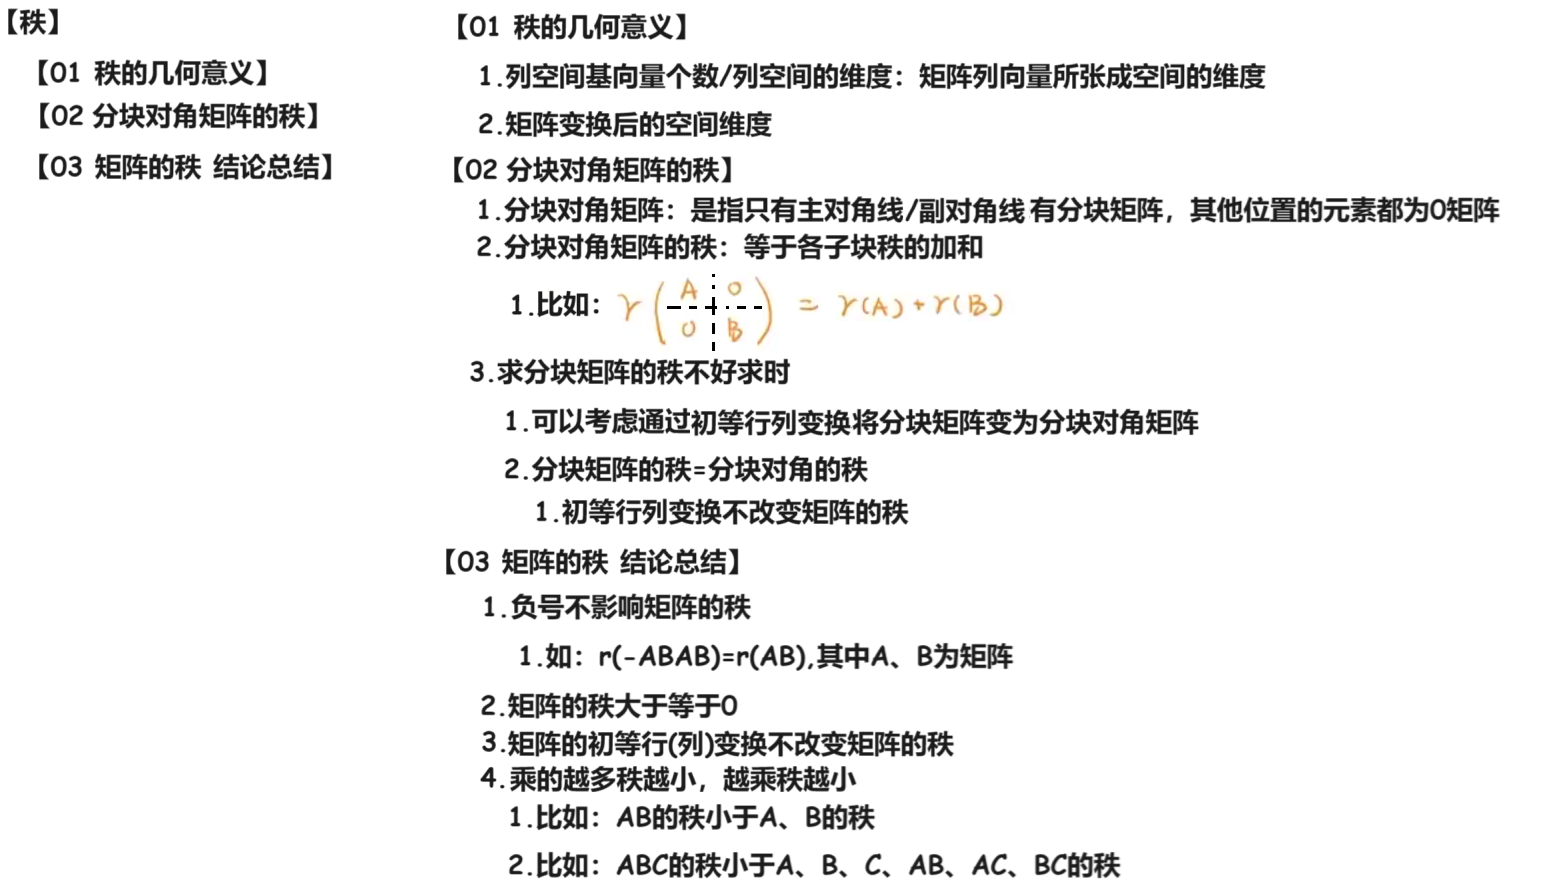
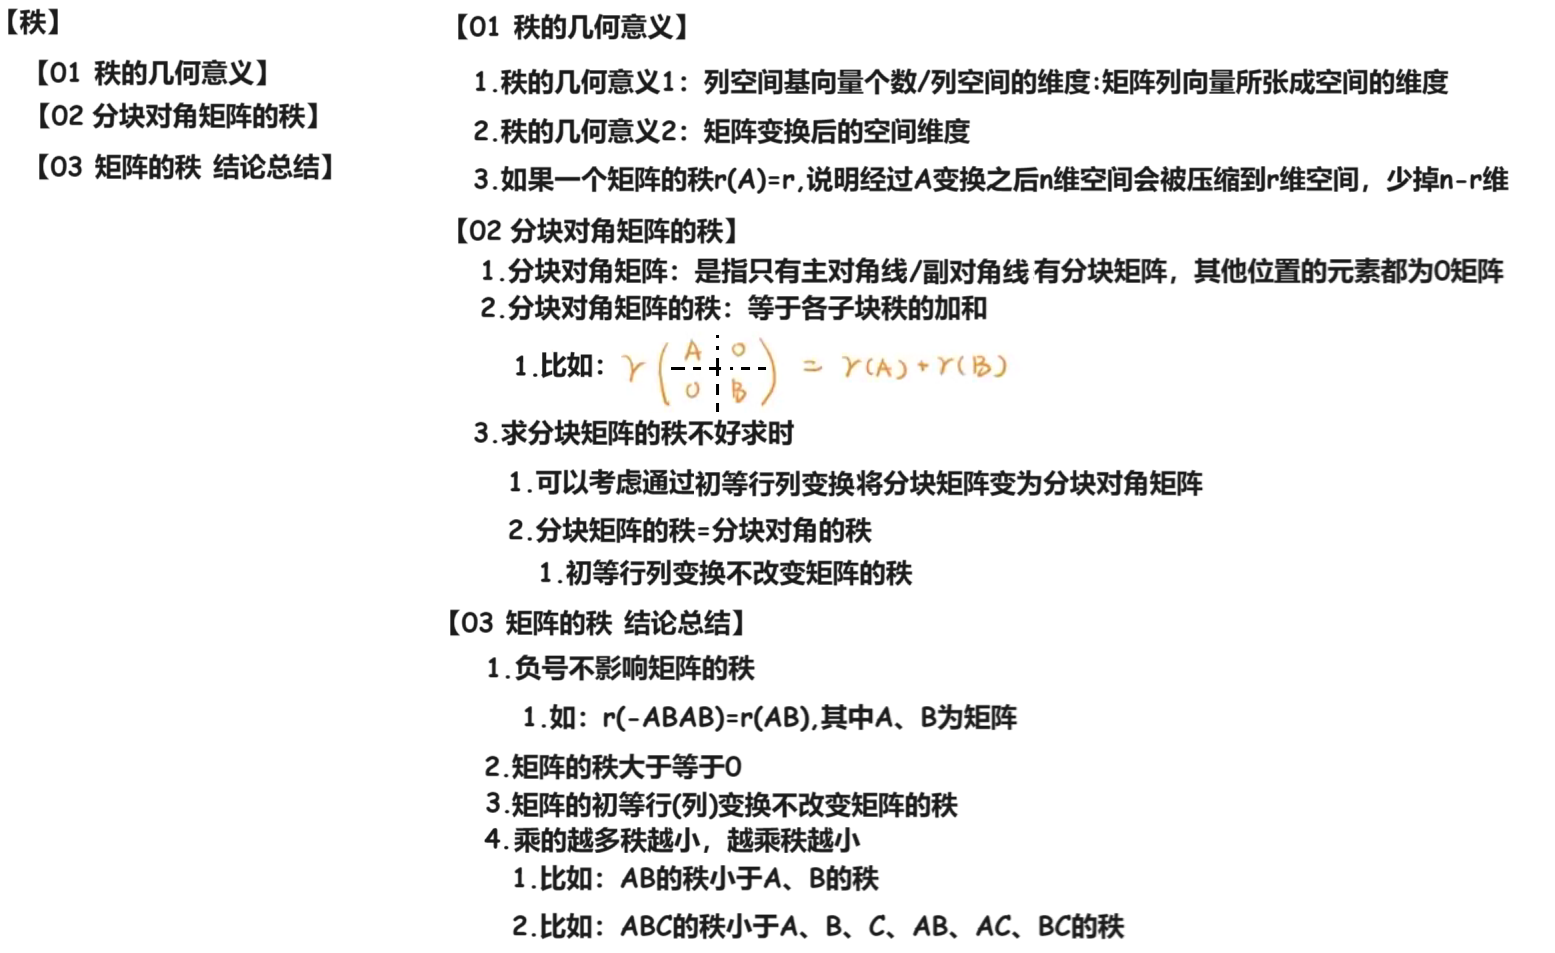
240305

Changed region(s): [[0.2778, 0.0, 0.9878, 0.9966], [0.0309, 0.0604, 0.2161, 0.2114], [0.0, 0.0, 0.0309, 0.0604]]

diff --git a/02 线代/02 知识点/05 【B站 小崔说数】 线代本质合集 240305/02 Doc.md b/02 线代/02 知识点/05 【B站 小崔说数】 线代本质合集 240305/02 Doc.md
@@ -4,7 +4,7 @@
 
 # 02 用向量视角看待解方程组
 
-<img src="https://cvp.oss-cn-shanghai.aliyuncs.com/picgo/202403042157510.png" alt="image-20240304215742963" style="zoom:50%;" />
+<img src="https://cvp.oss-cn-shanghai.aliyuncs.com/picgo/202403051636664.png" alt="image-20240305163618384" style="zoom:50%;" />
 
 # 03 为什么说线性代数研究的是空间变换
 

diff --git a/02 线代/02 知识点/04 秩 240305/02 Doc.md b/02 线代/02 知识点/04 秩 240305/02 Doc.md
@@ -1,3 +1,3 @@
 # 01 秩
 
-<img src="https://cvp.oss-cn-shanghai.aliyuncs.com/picgo/202403051435025.png" alt="image-20240305143518916" style="zoom:50%;" />
+<img src="https://cvp.oss-cn-shanghai.aliyuncs.com/picgo/202403051709291.png" alt="image-20240305170914146" style="zoom:50%;" />

diff --git a/02 线代/02 知识点/06 解方程组 240305/02 Doc.md b/02 线代/02 知识点/06 解方程组 240305/02 Doc.md
@@ -1,2 +1,3 @@
 # 解方程组
 
+<img src="https://cvp.oss-cn-shanghai.aliyuncs.com/picgo/202403051734584.png" alt="01 解方程组" style="zoom:50%;" />
